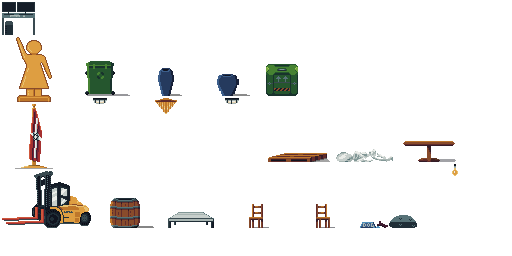
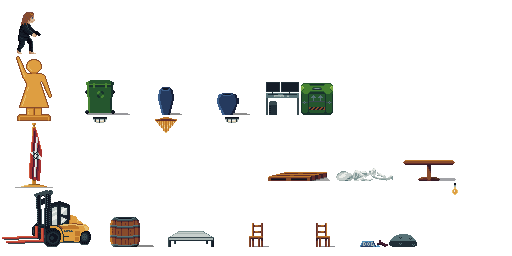
minor steam store page additions

diff --git a/source code/assets/maps/Assets.tsx b/source code/assets/maps/Assets.tsx
@@ -280,4 +280,9 @@
    <property name="name" value="skeleton 1"/>
   </properties>
  </tile>
+ <tile id="132">
+  <properties>
+   <property name="name" value="player"/>
+  </properties>
+ </tile>
 </tileset>

diff --git a/source code/core/src/no/sandramoen/terfenstein3D/screens/gameplay/level/UIHandler.java b/source code/core/src/no/sandramoen/terfenstein3D/screens/gameplay/level/UIHandler.java
@@ -24,7 +24,7 @@ public class UIHandler {
     private Table uiTable;
     private Array<Enemy> enemies;
     private HUD hud;
-    private boolean isDebug = true;
+    private boolean isDebug = false;
 
     public UIHandler(Table uiTable, Array<Enemy> enemies, HUD hud) {
         this.uiTable = uiTable;
@@ -73,7 +73,7 @@ public class UIHandler {
 
         statusLabel = new Label("enemies left: " + enemies.size, new Label.LabelStyle(BaseGame.mySkin.get("arcade26", BitmapFont.class), null));
         statusLabel.setColor(Color.DARK_GRAY);
-        if (isDebug)
+        if (isDebug || !BaseGame.isHideUI)
             uiTable.add(statusLabel)
                     .expandX()
                     .left()
@@ -83,7 +83,7 @@ public class UIHandler {
 
         debugLabel = new Label(" ", new Label.LabelStyle(BaseGame.mySkin.get("arcade26", BitmapFont.class), null));
         debugLabel.setColor(Color.DARK_GRAY);
-        if (isDebug)
+        if (isDebug || !BaseGame.isHideUI)
             uiTable.add(debugLabel)
                     .expandX()
                     .top()

diff --git a/source code/core/src/no/sandramoen/terfenstein3D/actors/hud/HUD.java b/source code/core/src/no/sandramoen/terfenstein3D/actors/hud/HUD.java
@@ -76,6 +76,15 @@ public class HUD extends BaseActor {
         overlayIndicator = new OverlayIndicator(stage);
         face = new Face(stage, getFaceHealthIndex());
         addActor(keys = new Keys(getX(), getY(), getWidth(), getHeight(), stage));
+
+        if (BaseGame.isHideUI) {
+            face.setVisible(false);
+            ammoLabel.setVisible(false);
+            armorLabel.setVisible(false);
+            healthLabel.setVisible(false);
+            scoreLabel.setVisible(false);
+        }
+
         /*setDebug(true);*/
     }
 

diff --git a/source code/core/src/no/sandramoen/terfenstein3D/utils/BaseGame.java b/source code/core/src/no/sandramoen/terfenstein3D/utils/BaseGame.java
@@ -109,6 +109,7 @@ public abstract class BaseGame extends Game implements AssetErrorListener {
     public static boolean isCustomShadersEnabled = true;
     public static float mouseMovementSensitivity = .05f;
     public static boolean isHeadBobbing;
+    public static boolean isHideUI = false;
     public static float aspectRatio = 16 / 9f;
     public static float voiceVolume = 1f;
     public static float soundVolume = .5f;

diff --git a/source code/core/src/no/sandramoen/terfenstein3D/actors/props/Prop.java b/source code/core/src/no/sandramoen/terfenstein3D/actors/props/Prop.java
@@ -22,6 +22,8 @@ public class Prop extends BaseActor3D {
             initializeModel(y, z, 8, 4);
         else if (type.equalsIgnoreCase("lightBulb 2") || type.equalsIgnoreCase("lightBulb 3"))
             initializeModel(y, z, 4, 8);
+        else if (type.equalsIgnoreCase("player"))
+            initializeModel(y, z, 3, 3);
         else
             initializeModel(y, z, 4, 4);
         loadImage("props/" + type);

diff --git a/source code/core/src/no/sandramoen/terfenstein3D/actors/weapon/WeaponHandler.java b/source code/core/src/no/sandramoen/terfenstein3D/actors/weapon/WeaponHandler.java
@@ -62,6 +62,11 @@ public class WeaponHandler extends BaseActor {
         weapons.add(new Boot(), new Pistol(), new Shotgun(), new Chaingun());
         weapons.add(new RocketLauncher());
         setWeapon(1);
+
+        if (BaseGame.isHideUI) {
+            setVisible(false);
+            crosshair.setVisible(false);
+        }
     }
 
     @Override

diff --git a/source code/core/src/no/sandramoen/terfenstein3D/screens/gameplay/level/MapLoader.java b/source code/core/src/no/sandramoen/terfenstein3D/screens/gameplay/level/MapLoader.java
@@ -388,6 +388,7 @@ public class MapLoader {
         types.add("barrel 1", "flag 1", "trash 1", "lightBulb 2");
         types.add("vase 1", "vase 2", "palle 1", "forklift");
         types.add("dog bed 1", "bed 1", "lightBulb 3", "skeleton 1");
+        types.add("player");
         // types.add("");
 
         for (String type : types) {

diff --git a/source code/core/src/no/sandramoen/terfenstein3D/screens/gameplay/level/LightManager.java b/source code/core/src/no/sandramoen/terfenstein3D/screens/gameplay/level/LightManager.java
@@ -46,7 +46,7 @@ public class LightManager {
     }
 
     private void setAmbient() {
-        environment.set(new ColorAttribute(ColorAttribute.AmbientLight, .4f, .4f, .5f, 1f));
+        environment.set(new ColorAttribute(ColorAttribute.AmbientLight, .3f, .3f, .4f, 1f));
     }
 
     private void setDirectionalLight() {
